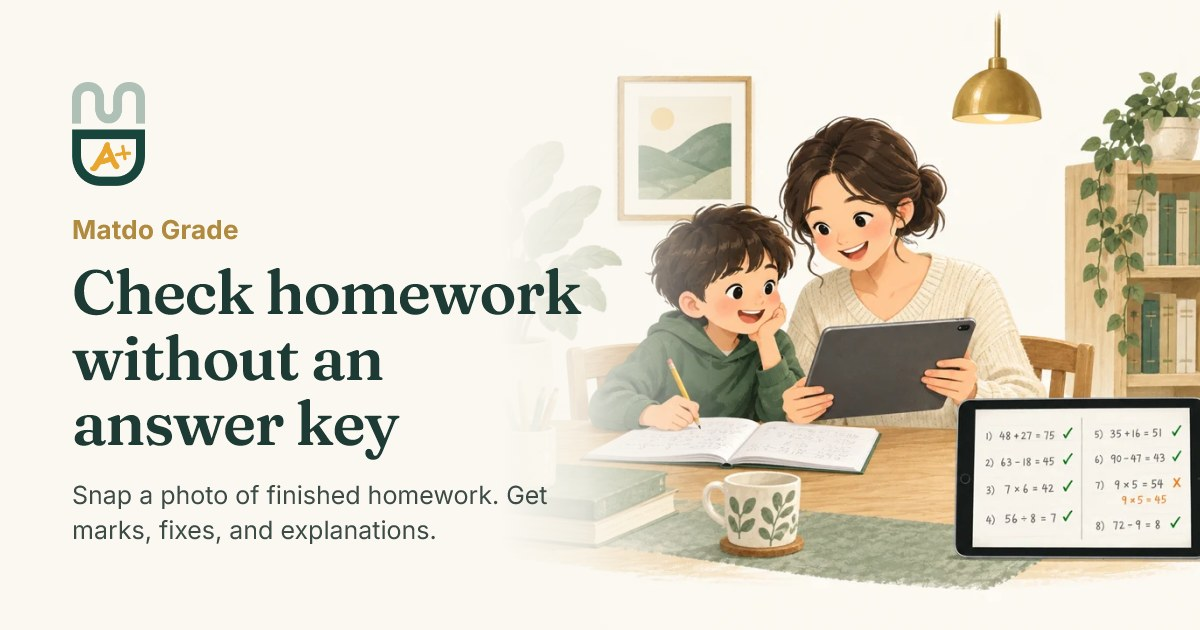
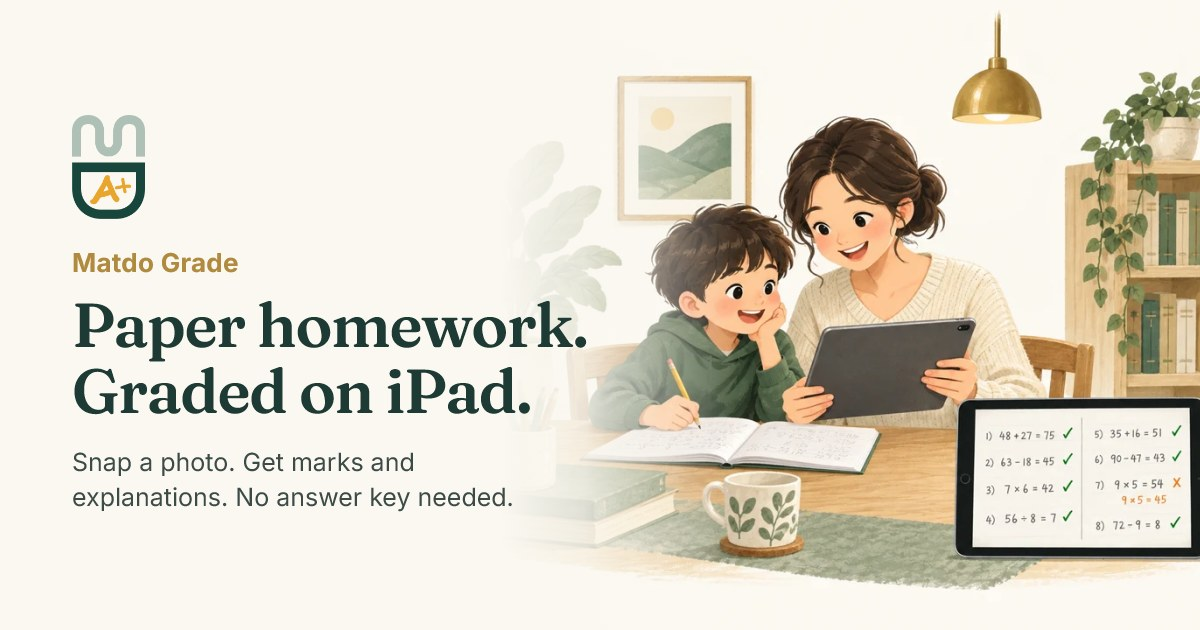
Retitle Matdo Grade: Paper homework, graded on iPad
Update the page title and the Grade link-preview card headline; the
no-answer-key point moves to the card subtitle.

Changed region(s): [[0.0617, 0.1206, 0.4933, 0.8746]]

diff --git a/design/share-cards/card.html b/design/share-cards/card.html
@@ -40,8 +40,8 @@
       art: "../../public/demo/grade/features/parent-ipad-illustration.webp",
       artPos: "62% 50%",
       name: "Matdo Grade",
-      headline: "Check homework without an answer key",
-      sub: "Snap a photo of finished homework. Get marks, fixes, and explanations.",
+      headline: "Paper homework. Graded on iPad.",
+      sub: "Snap a photo. Get marks and explanations. No answer key needed.",
     },
     check: {
       accent: "#1f6f63",
